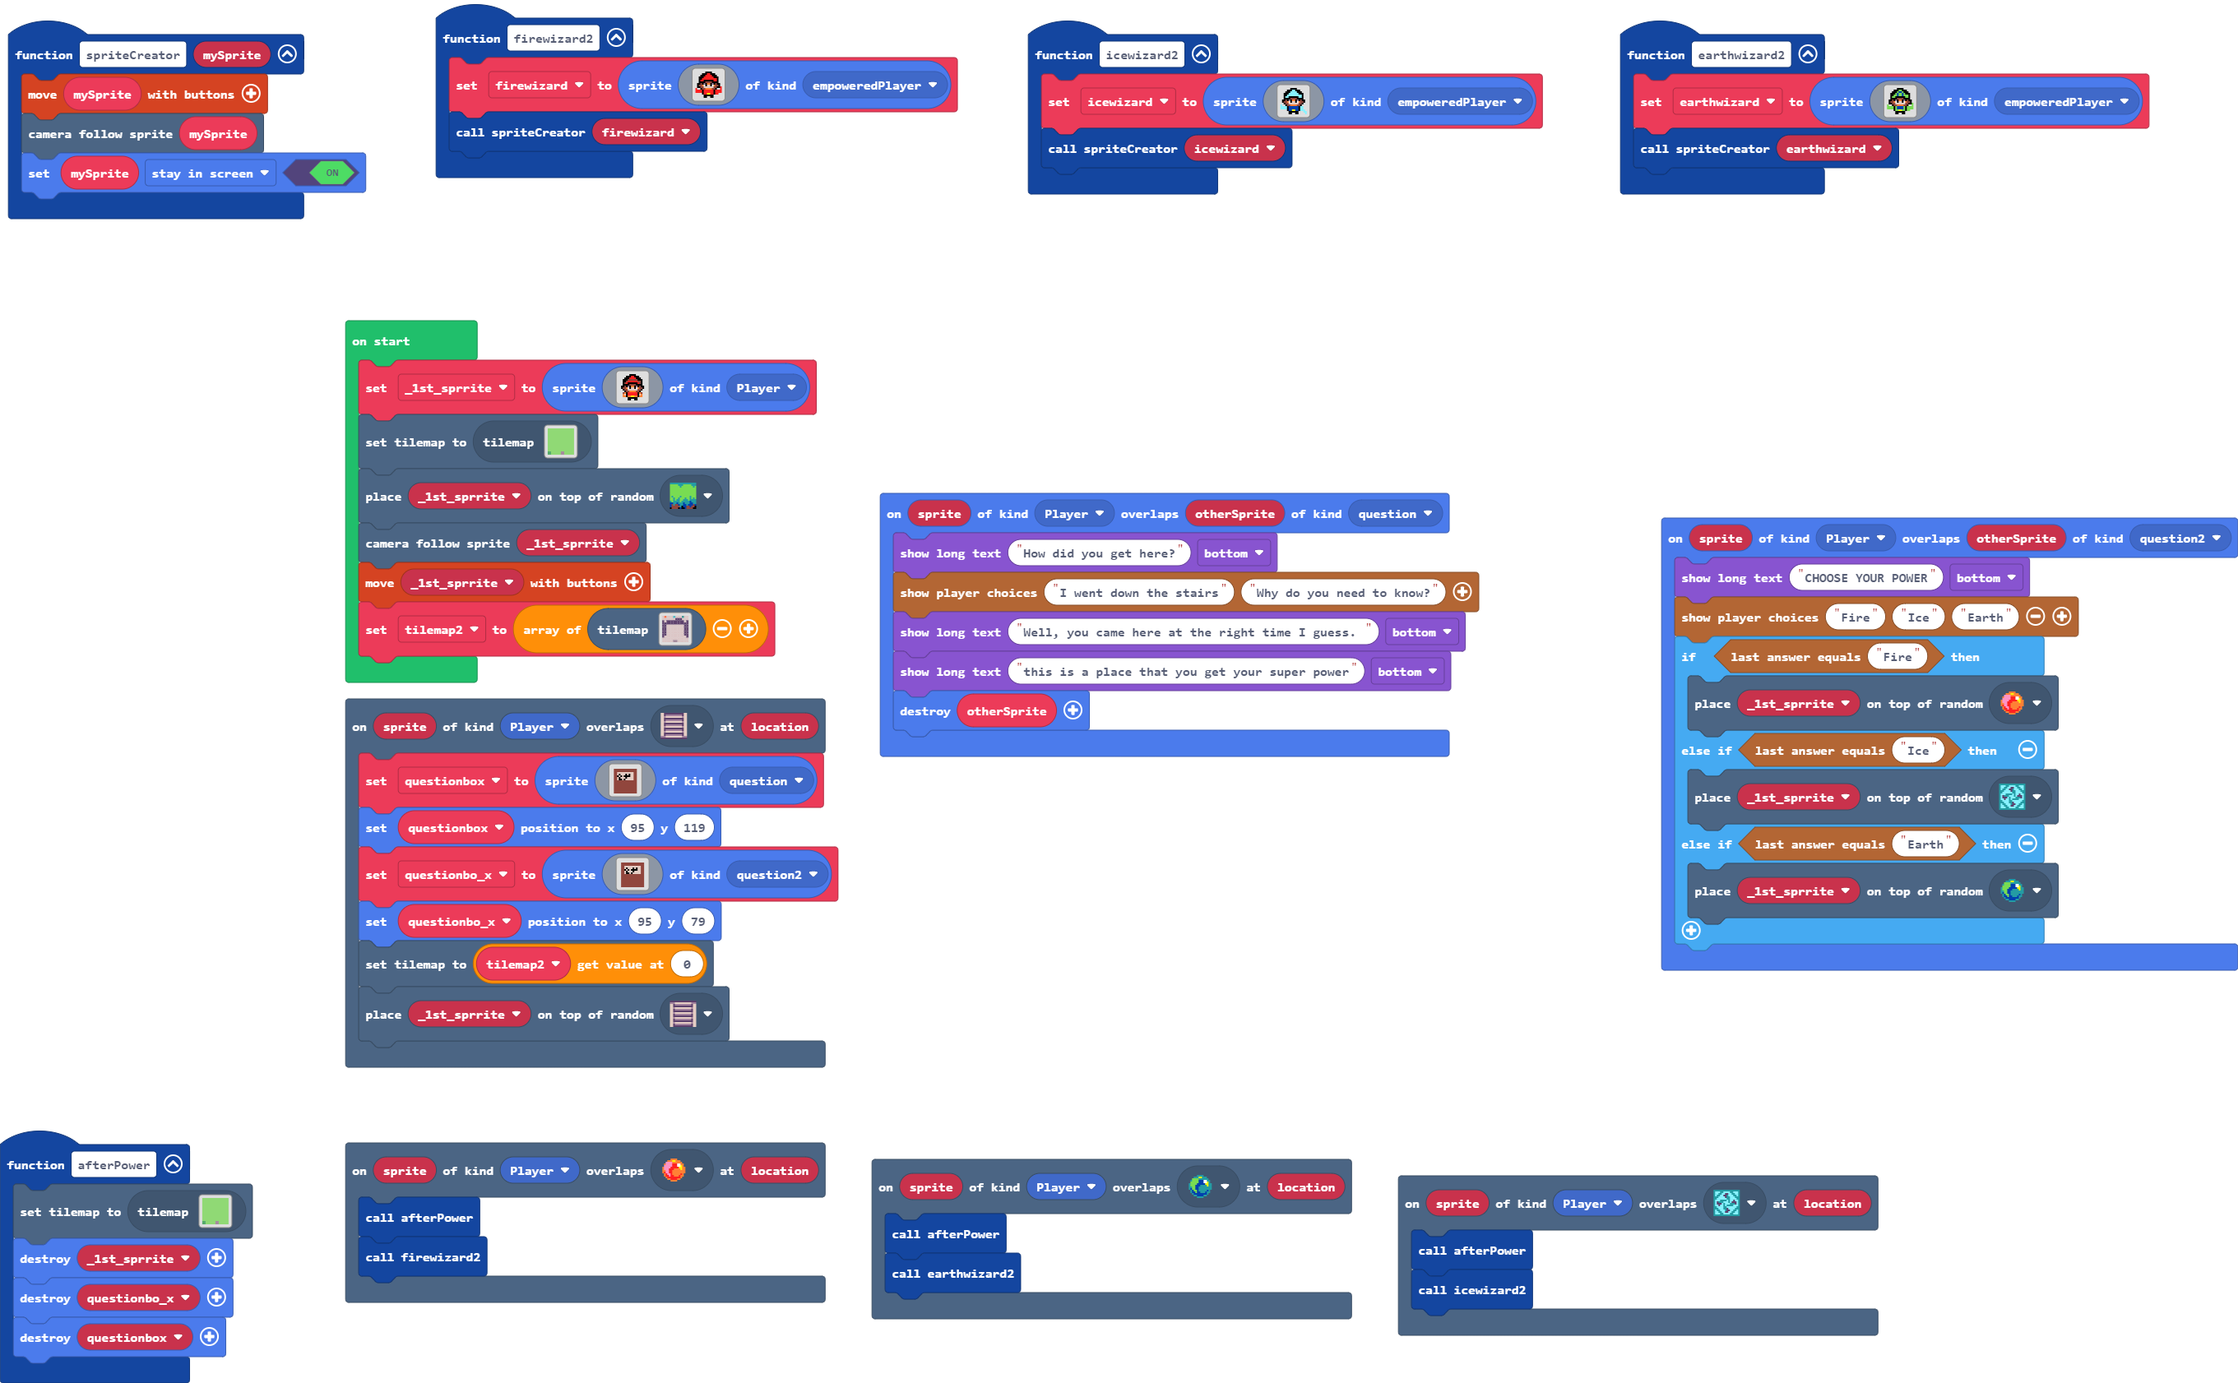
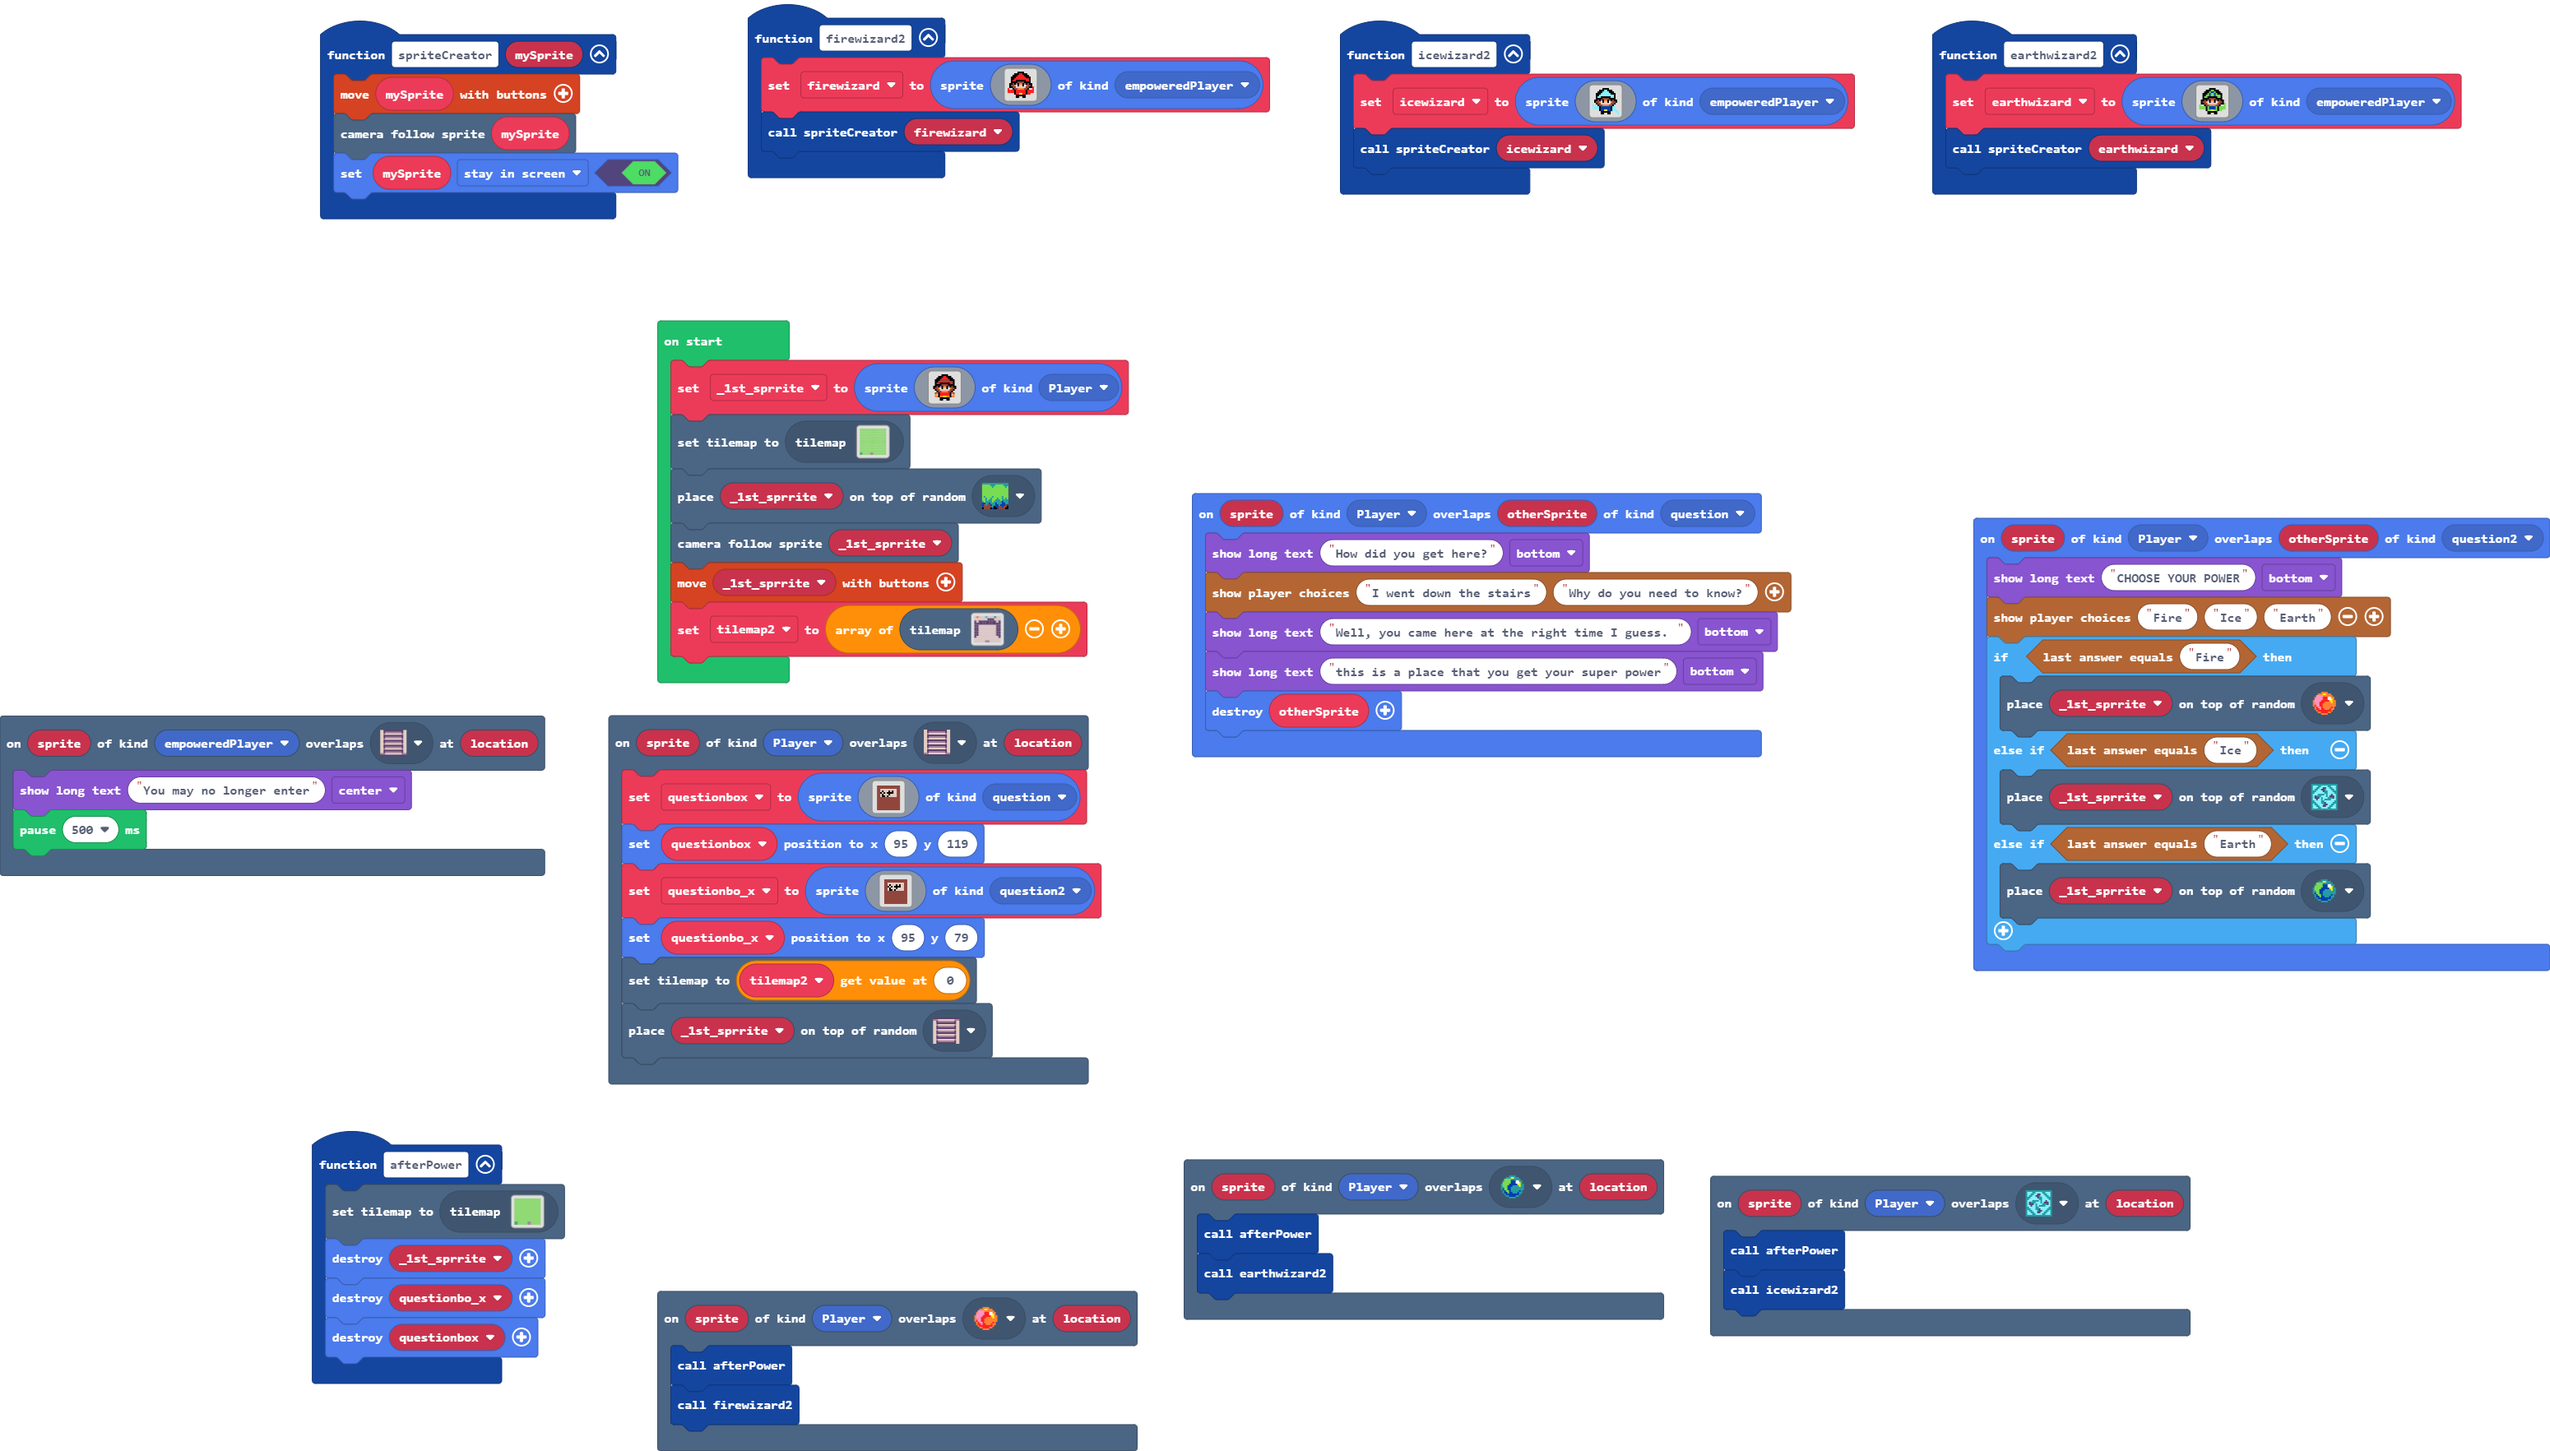
Update main.blocks, main.ts, tilemap.g.jres, tilemap.g.ts

diff --git a/tilemap.g.ts b/tilemap.g.ts
@@ -246,17 +246,6 @@ namespace myTiles {
 . . . . . . . . . . . . . . . . 
 . . . . . . . . . . . . . . . . 
 `, [myTiles.transparency16], TileScale.Sixteen);
-            case "level13":
-            case "level13":return tiles.createTilemap(hex`0800080001010101010101010101010101010101010101010101010101010101010101010101010101010101010101010101010101010101010101010201010103010101`, img`
-. . . . . . . . 
-. . . . . . . . 
-. . . . . . . . 
-. . . . . . . . 
-. . . . . . . . 
-. . . . . . . . 
-. . . . . . . . 
-. . . . . . . . 
-`, [myTiles.transparency16,sprites.castle.tileGrass2,sprites.builtin.forestTiles22,sprites.dungeon.stairNorth], TileScale.Sixteen);
             case "level14":
             case "level14":return tiles.createTilemap(hex`1000100000000000000000000000000000000000000000000000000000000000000000000000000000000000000000000000000000000000000000000000000000000000000000000000000000000000000000000000000000000000000000000000000000000000000000000000000000000000000000000000000000000000000000000000000000000000000000000000000000000000000000000000000000000000000000000000000000000000000000000000000000000000000000000000000000000000000000000000000000000000000000000000000000000000000000000000000000000000000000000000000000000000000000000000000000000000`, img`
 . . . . . . . . . . . . . . . . 
@@ -424,6 +413,19 @@ namespace myTiles {
 . . . . . . . . . . . . . . . . 
 . . . . . . . . . . . . . . . . 
 `, [myTiles.transparency16], TileScale.Sixteen);
+            case "level13":
[1 lines of base64/hex data omitted]
+. . . . . . . . . . 
+. . . . . . . . . . 
+. . . . . . . . . . 
+. . . . . . . . . . 
+. . . . . . . . . . 
+. . . . . . . . . . 
+. . . . . . . . . . 
+. . . . . . . . . . 
+. . . . . . . . . . 
+. . . . . . . . . . 
+`, [myTiles.transparency16,sprites.castle.tileGrass2,sprites.builtin.forestTiles22,sprites.dungeon.stairNorth], TileScale.Sixteen);
         }
         return null;
     })

diff --git a/main.ts b/main.ts
@@ -45,6 +45,10 @@ scene.onOverlapTile(SpriteKind.Player, sprites.dungeon.stairNorth, function (spr
     tiles.setCurrentTilemap(tilemap2[0])
     tiles.placeOnRandomTile(_1st_sprrite, sprites.dungeon.stairSouth)
 })
+scene.onOverlapTile(SpriteKind.empoweredPlayer, sprites.dungeon.stairNorth, function (sprite, location) {
+    game.showLongText("You may no longer enter", DialogLayout.Center)
+    pause(500)
+})
 function afterPower () {
     tiles.setCurrentTilemap(tilemap`level13`)
     sprites.destroy(_1st_sprrite)
